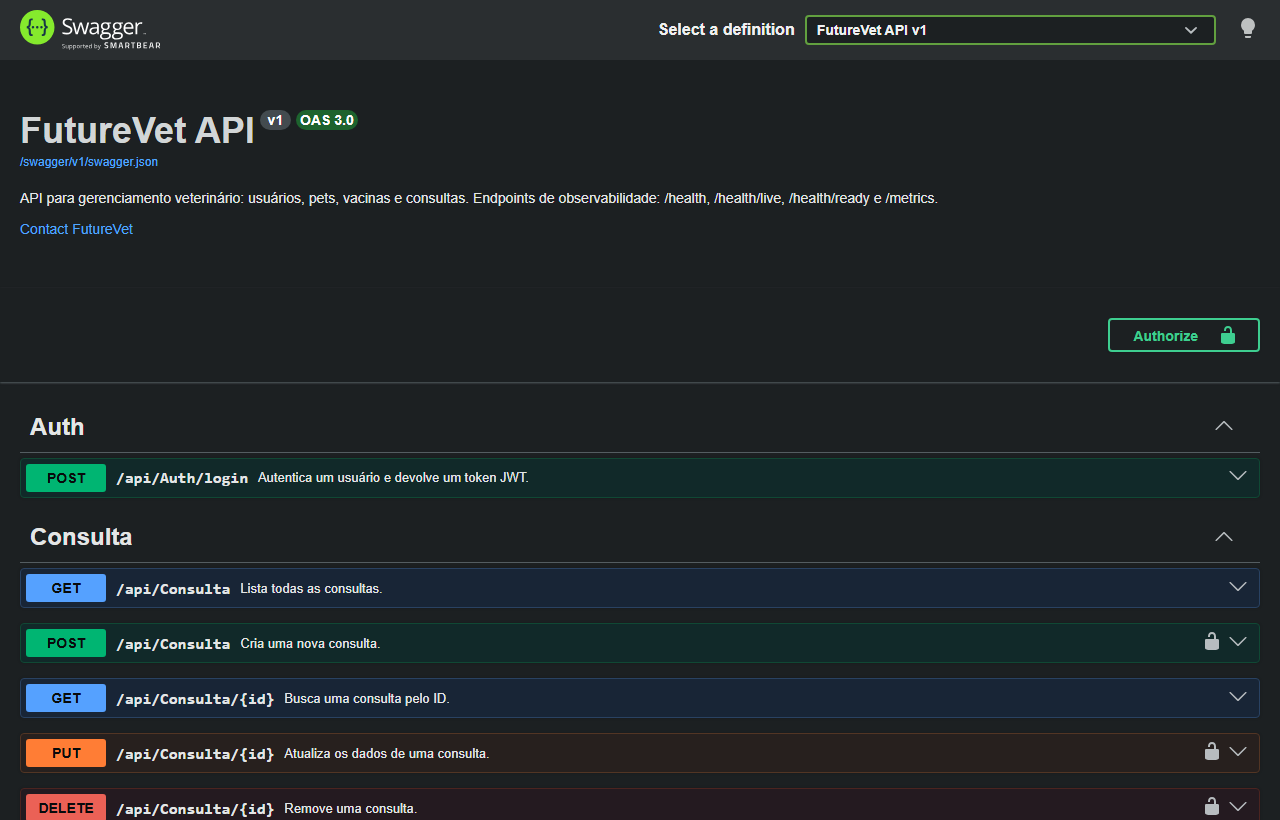
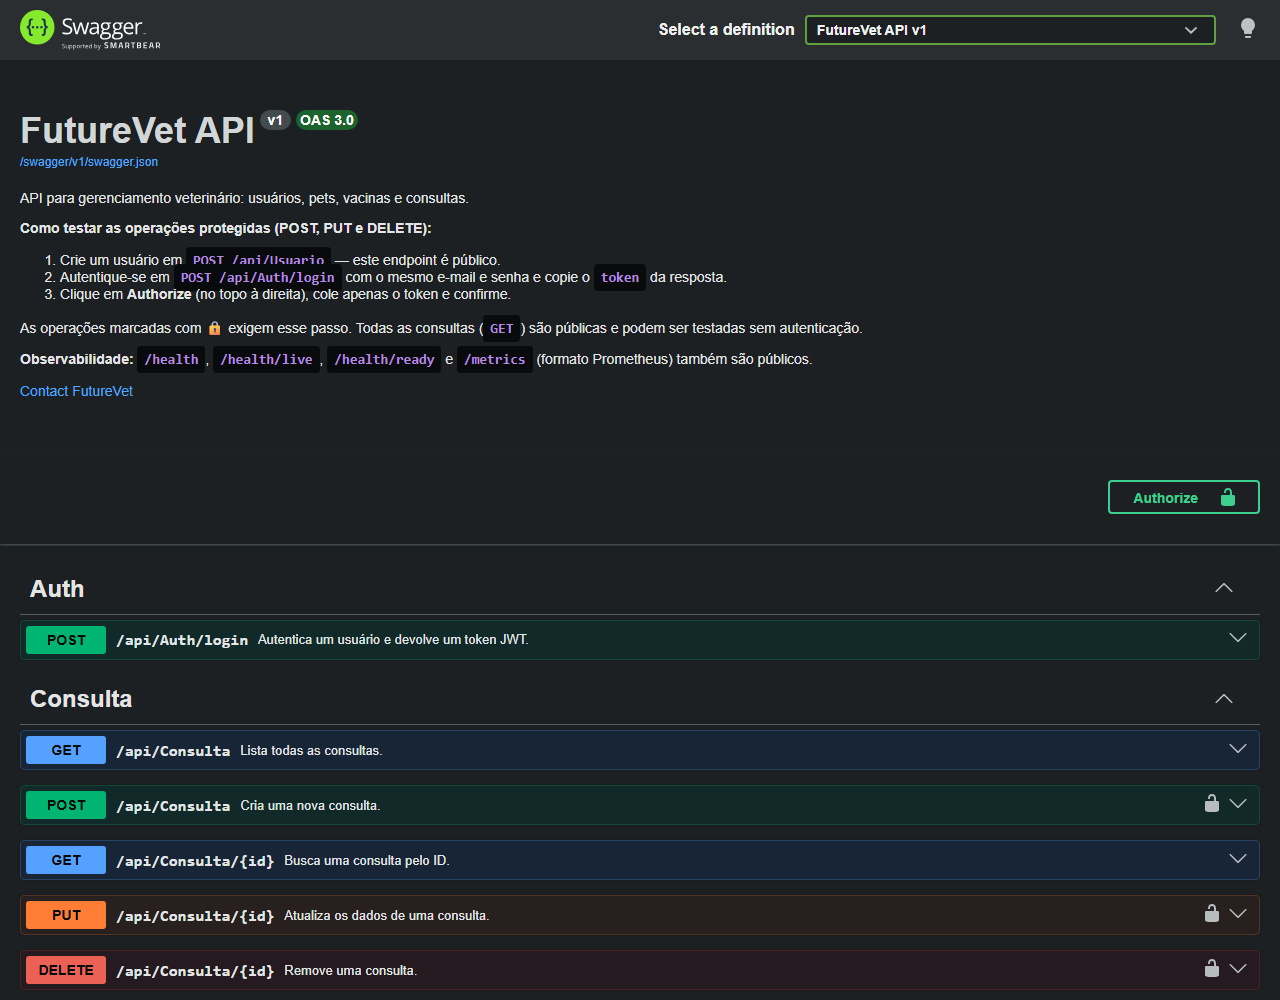
docs: guia de avaliacao e instrucoes de autenticacao no Swagger

diff --git a/FutureVet.API/Program.cs b/FutureVet.API/Program.cs
@@ -37,8 +37,22 @@ try
         {
             Title = "FutureVet API",
             Version = "v1",
-            Description = "API para gerenciamento veterinário: usuários, pets, vacinas e consultas. "
-                          + "Endpoints de observabilidade: /health, /health/live, /health/ready e /metrics.",
+            Description =
+                """
+                API para gerenciamento veterinário: usuários, pets, vacinas e consultas.
+
+                **Como testar as operações protegidas (POST, PUT e DELETE):**
+
+                1. Crie um usuário em `POST /api/Usuario` — este endpoint é público.
+                2. Autentique-se em `POST /api/Auth/login` com o mesmo e-mail e senha e copie o `token` da resposta.
+                3. Clique em **Authorize** (no topo à direita), cole apenas o token e confirme.
+
+                As operações marcadas com 🔒 exigem esse passo. Todas as consultas (`GET`) são
+                públicas e podem ser testadas sem autenticação.
+
+                **Observabilidade:** `/health`, `/health/live`, `/health/ready` e `/metrics`
+                (formato Prometheus) também são públicos.
+                """,
             Contact = new OpenApiContact
             {
                 Name = "FutureVet",

diff --git a/README.md b/README.md
@@ -27,6 +27,58 @@ Além das funcionalidades de negócio, a aplicação foi preparada para operar e
 
 ---
 
+# 🧭 Guia de Avaliação
+
+Onde cada critério das sprints está implementado e como verificá-lo.
+
+### Sprint 1 — CRUD, HTTP, Oracle e OpenAPI
+
+| Critério | Onde está | Como verificar |
+|---|---|---|
+| GET com mais de 3 rotas parametrizadas | **14 rotas** nos 4 controllers | [Rotas da API](#-rotas-da-api) |
+| POST, PUT, DELETE | 1 de cada nos 4 controllers | Swagger |
+| Organização REST | `api/[controller]` + sub-recursos (`/pet/{petId}`) | [Rotas da API](#-rotas-da-api) |
+| 200 / 201 / 204 / 400 / 404 / 401 | `ProducesResponseType` em todas as ações | 111 testes de integração |
+| DbContext | `FutureVet.Infrastructure/Persistence/FutureVetContext.cs` | — |
+| Mapeamento das entidades | `Persistence/Configurations/*.cs` (Fluent API) | — |
+| Conexão com Oracle | `GET /health` → check `database` | [Evidências](#-evidências) |
+| Migrations | `Migrations/20260523230247_InitialCreate` | `dotnet ef database update` |
+| Estrutura do banco | FKs em cascata + índices únicos (Email, CPF) | [Banco de Dados](#-banco-de-dados) |
+| Swagger configurado | Interface na raiz (`http://localhost:5189`) | [Evidências](#-evidências) |
+| Endpoints documentados | XML comments → **18 rotas** no OpenAPI | Swagger |
+| README | este arquivo | — |
+
+### Sprint 3 — Observabilidade e testes
+
+| Critério | Pts | Onde está |
+|---|---|---|
+| Health Checks | 15 | `FutureVet.API/HealthChecks/` e `Extensions/HealthCheckExtensions.cs` |
+| Logging estruturado (Serilog + correlação) | 10 | `Extensions/LoggingExtensions.cs`, `Middleware/CorrelationIdMiddleware.cs` |
+| Tracing e métricas (OpenTelemetry) | 15 | `Extensions/OpenTelemetryExtensions.cs`, `Application/Observability/` |
+| Testes unitários (xUnit + Moq, AAA) | 20 | `tests/FutureVet.UnitTests/` — **95 testes** |
+| Testes de integração (WebApplicationFactory) | 15 | `tests/FutureVet.IntegrationTests/` — **111 testes** |
+| Cobertura, nomenclatura, Fixtures | 15 | [Testes](#-testes) |
+| README | 10 | este arquivo |
+
+### Verificação em 3 comandos
+
+```bash
+dotnet test
+```
+
+```bash
+dotnet run --project FutureVet.API
+```
+
+Com a API no ar: Swagger em `http://localhost:5189`, e `/health`, `/health/ready` e `/metrics`
+respondendo sem autenticação.
+
+> Para testar `POST`, `PUT` e `DELETE` no Swagger, cadastre-se em `POST /api/usuario`
+> (público), autentique-se em `POST /api/auth/login` e clique em **Authorize** com o token.
+> Os `GET` funcionam sem isso. Detalhes em [Autenticação](#-autenticação).
+
+---
+
 # 🏗 Arquitetura
 
 O projeto segue princípios de **Domain-Driven Design (DDD)** e separação de responsabilidades em camadas.
